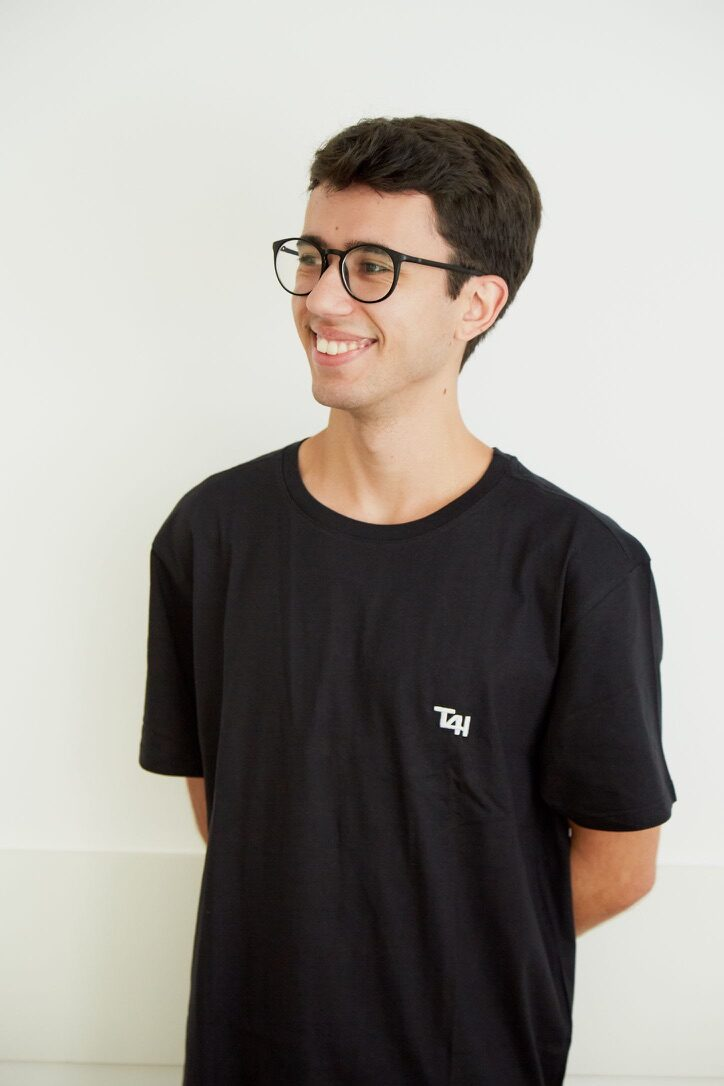
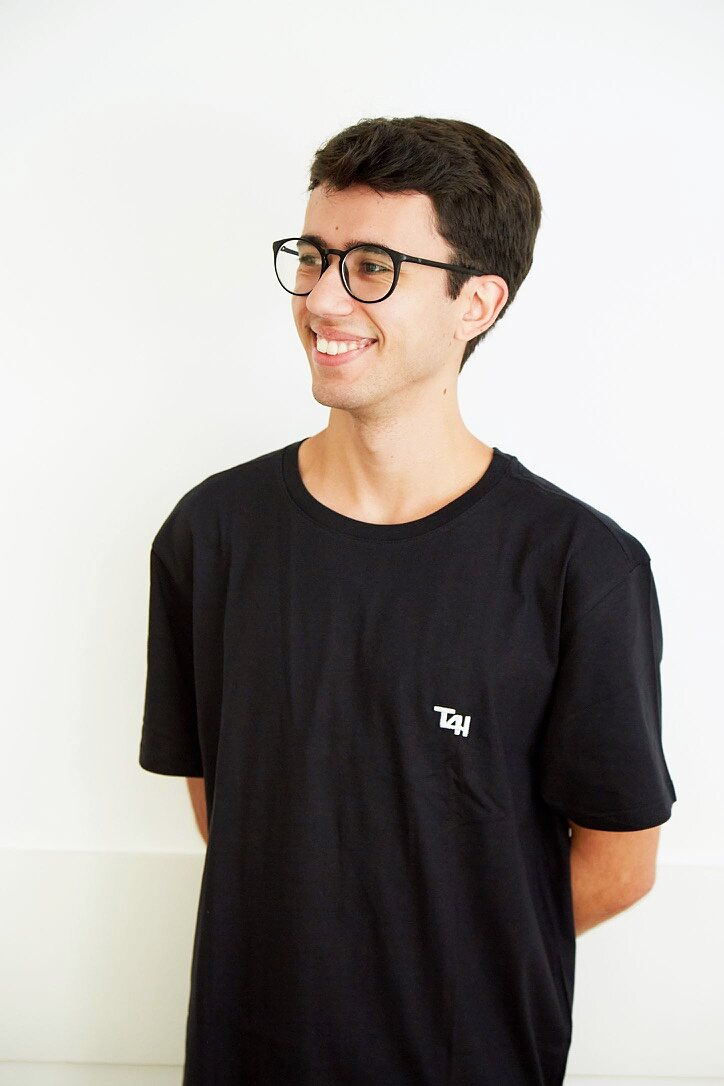
Grade the photos and frame thumbnails on the face
Each photo is re-processed from the original: light contrast across the
set, the studio portrait loses half of its lavender cast, the sofa shot
gets its contrast back, and the purple fade at the bottom of the HackTown
photo becomes a neutral one. Small sharpening after the resize.

Portrait thumbnails in Files and Palestras now sit on the face instead of
the chest, and the Startup Weekend 2025 photo says he was a participant.

diff --git a/src/data/photos.js b/src/data/photos.js
@@ -14,9 +14,9 @@ export const photos = [
   {
     id: "startup-weekend-2025",
     src: "/images/talks/startup-weekend-2025.jpg",
-    caption: "Startup Weekend 2025",
-    detail: "Startup Weekend",
-    sub: "Smart Cities · 2025",
+    caption: "Participante no Startup Weekend 2025",
+    detail: "Startup Weekend Smart Cities",
+    sub: "Participante · 2025",
   },
   { id: "retrato", src: "/images/photos/retrato.jpg", caption: "Retrato", detail: "Retrato", sub: "Tech for Humans" },
   {

diff --git a/src/components/desktop/Files.jsx b/src/components/desktop/Files.jsx
@@ -103,7 +103,7 @@ function Thumb({ item, size = "lg" }) {
         src={item.src}
         alt=""
         loading="lazy"
-        className={`photo-guard ${size === "lg" ? "h-16 w-20" : "h-5 w-6"} rounded-md border border-line object-cover`}
+        className={`photo-guard ${size === "lg" ? "h-16 w-20" : "h-5 w-6"} rounded-md border border-line object-cover object-[50%_22%]`}
         {...photoGuard}
       />
     )

diff --git a/src/components/desktop/AppViews.jsx b/src/components/desktop/AppViews.jsx
@@ -187,7 +187,7 @@ export function TalksView() {
                 src={talk.photo}
                 alt=""
                 loading="lazy"
-                className="photo-guard h-16 w-20 shrink-0 rounded-md object-cover"
+                className="photo-guard h-16 w-20 shrink-0 rounded-md object-cover object-[50%_22%]"
                 {...photoGuard}
               />
             ) : (
